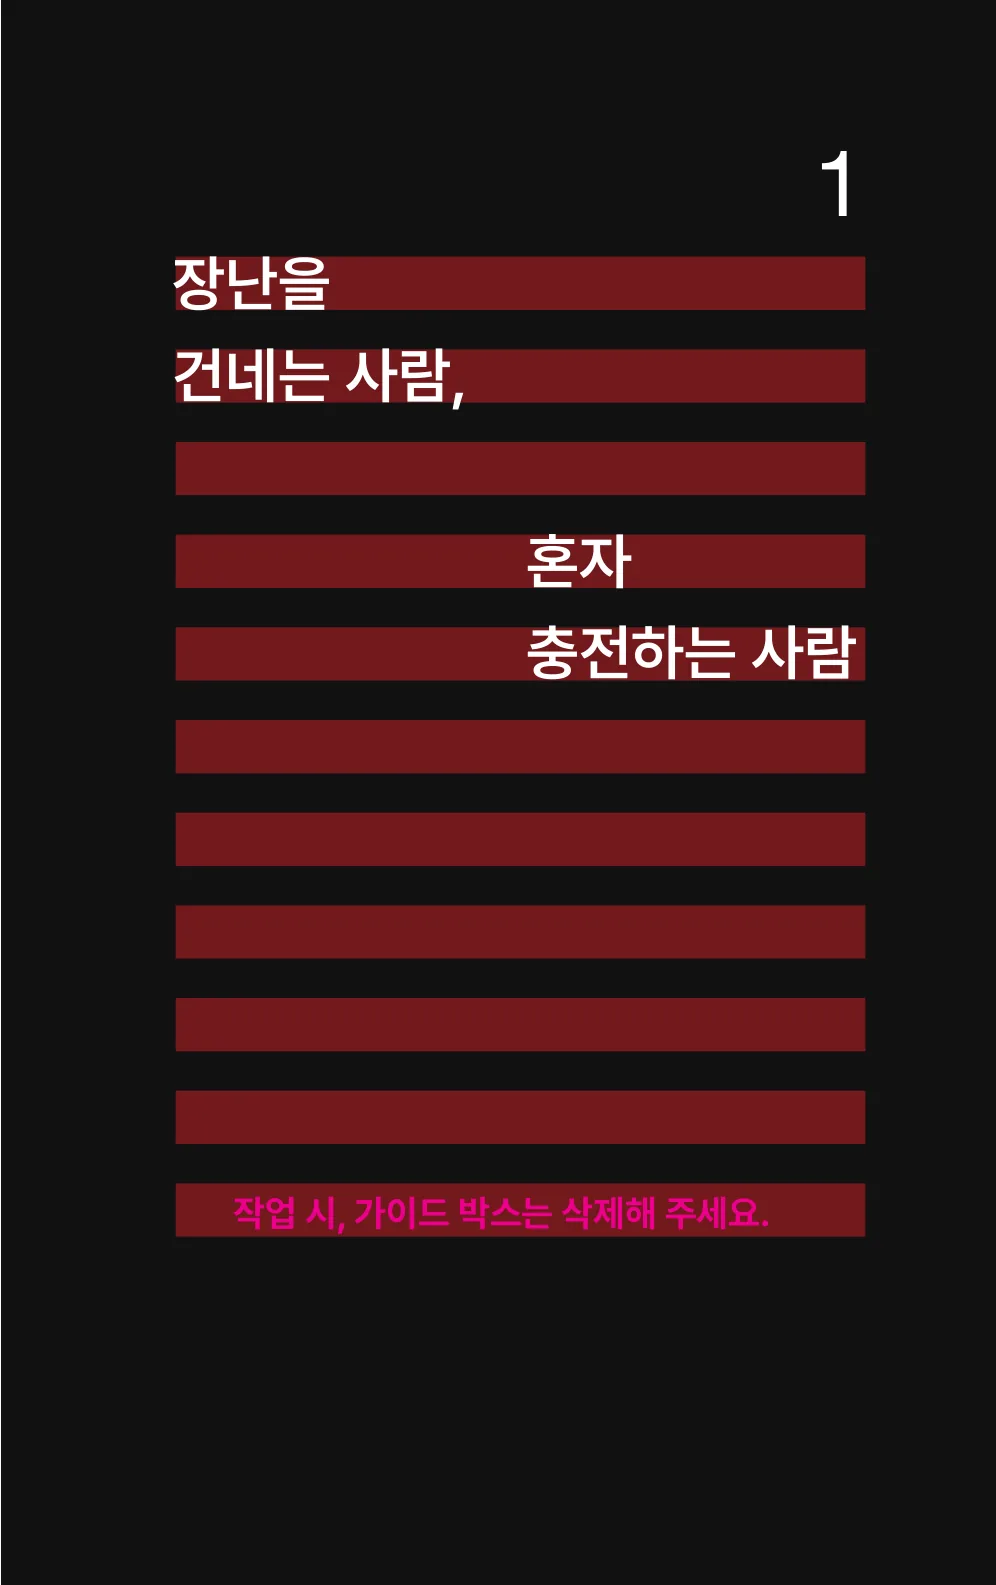
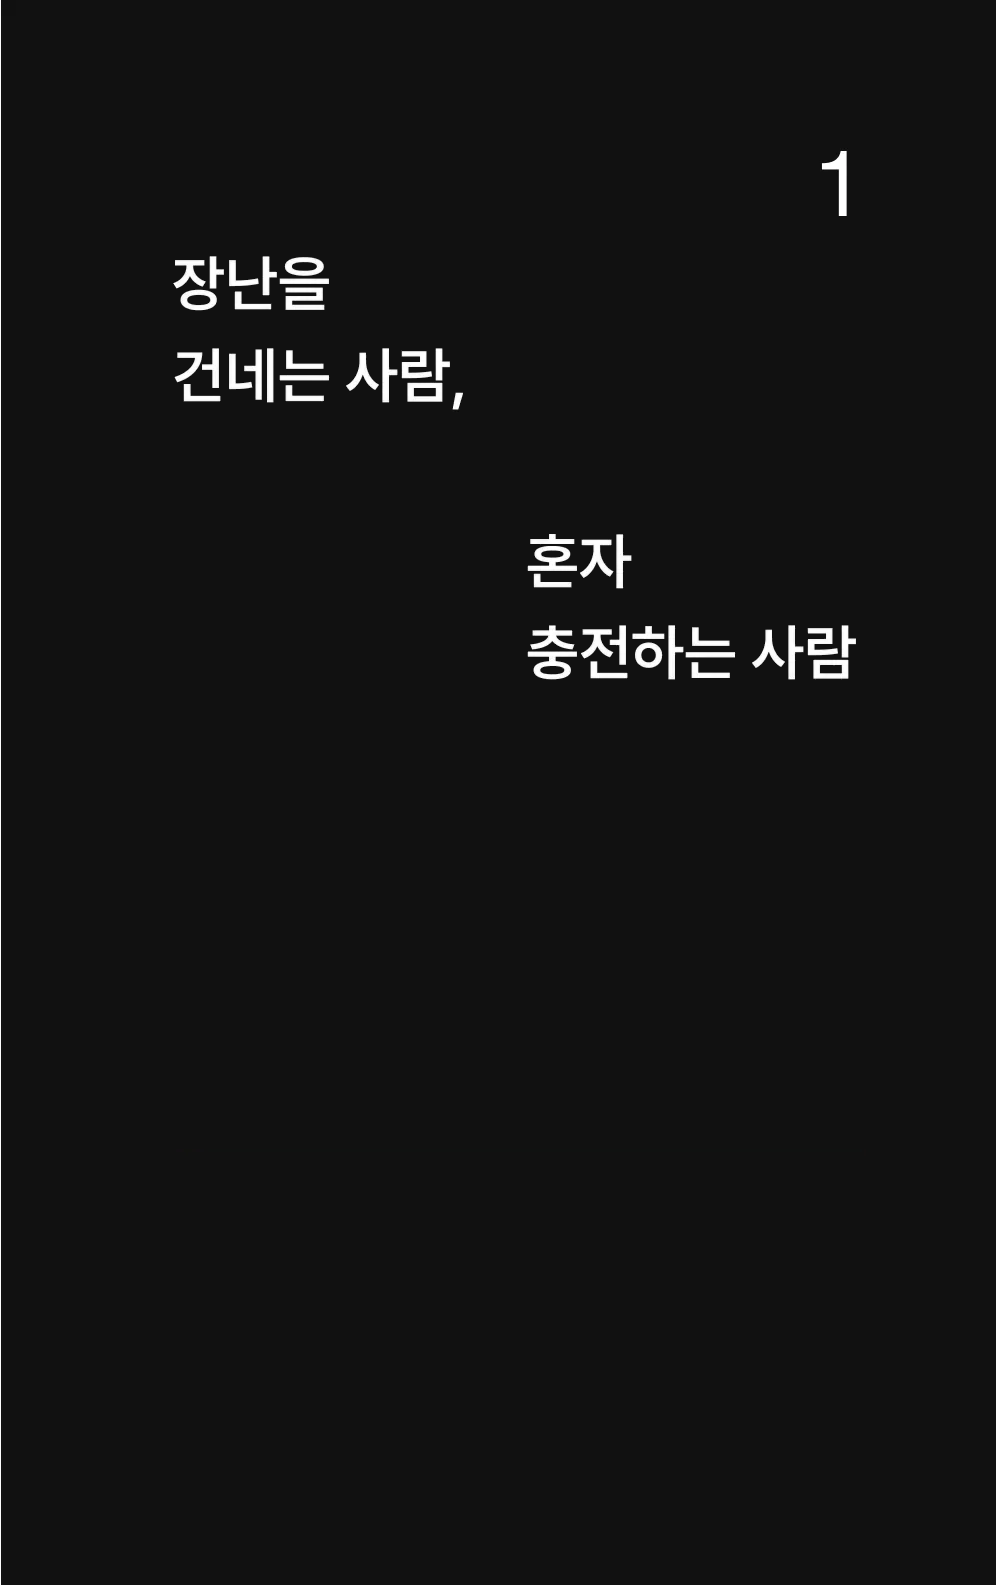
fix: 매거진 쪽 번호를 인쇄본에 맞추고 4쪽 가이드 박스 제거

Changed region(s): [[0.1556, 0.1546, 0.8715, 0.8038]]

diff --git a/components/MagazineViewer.tsx b/components/MagazineViewer.tsx
@@ -2,7 +2,7 @@
 
 import { useCallback, useEffect, useRef, useState } from "react";
 import type { Magazine } from "@/data/magazine";
-import { magazinePageSrc } from "@/data/magazine";
+import { magazineFolio, magazinePageSrc } from "@/data/magazine";
 import type { MagazineScene, ViewerState } from "@/lib/magazineScene";
 import styles from "./MagazineViewer.module.css";
 
@@ -24,8 +24,18 @@ function visiblePages(state: ViewerState, pageCount: number): number[] {
   return [2 * f, 2 * f + 1];
 }
 
-function pageLabel(pages: number[]) {
-  return pages.length > 1 ? `${pages[0]}–${pages[1]}` : String(pages[0]);
+/* 인쇄본 쪽 번호로 쓴 표시. 번호가 없는 앞·뒤표지는 이름으로 쓴다. */
+function pageLabel(magazine: Magazine, pages: number[]) {
+  const folios = pages.map((p) => magazineFolio(magazine, p));
+  if (folios.every((f) => f === null)) {
+    return pages[0] <= 1 ? "표지" : "뒤표지";
+  }
+  return folios.filter((f) => f !== null).join("–");
+}
+
+/* 숫자로 끝나면 '쪽'을 붙여 읽는다 */
+function spokenLabel(label: string) {
+  return /\d$/.test(label) ? `${label}쪽` : label;
 }
 
 export function MagazineViewer({ magazine }: Props) {
@@ -196,7 +206,8 @@ export function MagazineViewer({ magazine }: Props) {
     (acc, c, i) => (c.page <= pages[pages.length - 1] ? i : acc),
     0,
   );
-  const label = scrub !== null ? String(scrub) : pageLabel(pages);
+  const label = pageLabel(magazine, scrub !== null ? [scrub] : pages);
+  const lastFolio = magazineFolio(magazine, P - 1);
 
   if (noGl) {
     return (
@@ -234,7 +245,7 @@ export function MagazineViewer({ magazine }: Props) {
           onPointerUp={onPointerUp}
           onPointerCancel={onPointerUp}
           onPointerLeave={() => setHover(null)}
-          aria-label={`${magazine.title} 매거진. ${label}쪽`}
+          aria-label={`${magazine.title} 매거진. ${spokenLabel(label)}`}
           role="img"
         />
 
@@ -270,7 +281,7 @@ export function MagazineViewer({ magazine }: Props) {
                   >
                     <span className={styles.tocNumber}>{c.number}</span>
                     <span className={styles.tocTitle}>{c.title}</span>
-                    <span className={styles.tocPage}>{c.page}</span>
+                    <span className={styles.tocPage}>{magazineFolio(magazine, c.page)}</span>
                   </button>
                 </li>
               ))}
@@ -289,7 +300,7 @@ export function MagazineViewer({ magazine }: Props) {
           aria-valuemin={1}
           aria-valuemax={P}
           aria-valuenow={shownPage}
-          aria-valuetext={`${label}쪽`}
+          aria-valuetext={spokenLabel(label)}
           onPointerDown={onTrackDown}
           onPointerMove={onTrackMove}
           onPointerUp={onTrackUp}
@@ -326,7 +337,7 @@ export function MagazineViewer({ magazine }: Props) {
             </button>
             <span className={styles.count}>
               <b>{label}</b>
-              <span className={styles.countTotal}> / {P}</span>
+              <span className={styles.countTotal}> / {lastFolio}</span>
             </span>
             <button
               type="button"

diff --git a/data/magazine.ts b/data/magazine.ts
@@ -20,6 +20,8 @@ export type Magazine = {
   pageHeight: number;
   /** 이미지가 있는 public 경로. 끝에 슬래시를 붙이지 않는다. */
   pagesPath: string;
+  /** 인쇄본에 찍힌 쪽 번호 = 이미지 순서 + folioOffset */
+  folioOffset: number;
   chapters: MagazineChapter[];
 };
 
@@ -31,6 +33,7 @@ export const EXPLORATION: Magazine = {
   pageWidth: 996,
   pageHeight: 1585,
   pagesPath: "/magazine/exploration",
+  folioOffset: 1,
   chapters: [
     { number: "", title: "표지", page: 1 },
     { number: "", title: "들어가며", page: 2 },
@@ -43,6 +46,12 @@ export const EXPLORATION: Magazine = {
     { number: "", title: "대화를 마치며", page: 53 },
   ],
 };
+
+/* 인쇄본 쪽 번호. 앞·뒤표지는 번호가 없어 null */
+export function magazineFolio(magazine: Magazine, page: number) {
+  if (page <= 1 || page >= magazine.pageCount) return null;
+  return page + magazine.folioOffset;
+}
 
 export function magazinePageSrc(magazine: Magazine, page: number) {
   return `${magazine.pagesPath}/p${String(page).padStart(2, "0")}.webp`;
